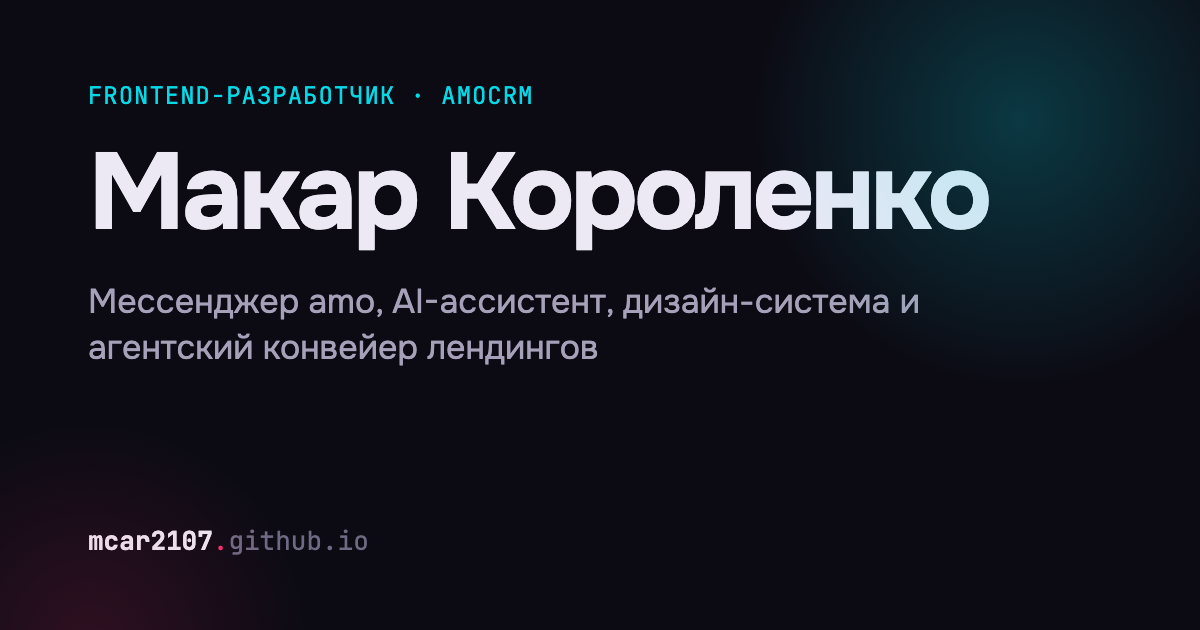
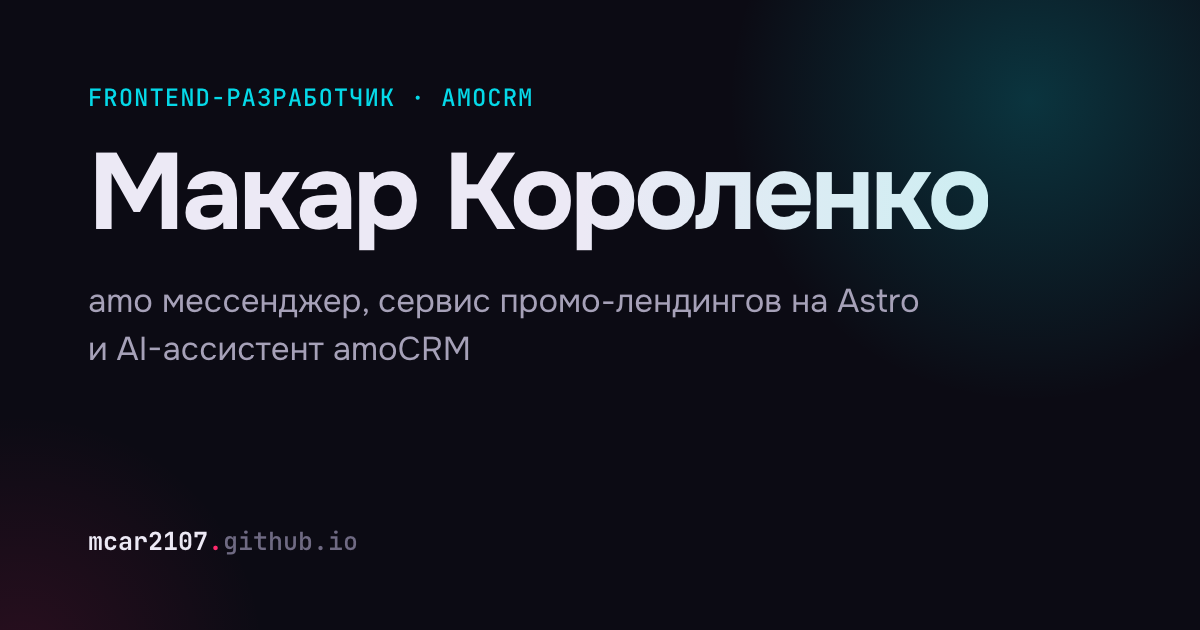
feat(og): add per-language Open Graph image
- Add `ogImage` to RU and EN UI strings (`og.png` / `og-en.png`)
- Use the language-specific OG image in `Base.astro` instead of the hardcoded `og.png`
- Add `public/og-en.png` for the English version

diff --git a/src/i18n.ts b/src/i18n.ts
@@ -20,6 +20,7 @@ export const langUrl = (lang: Lang) => {
 const ruUi = {
   langName: 'Русский',
   ogLocale: 'ru_RU',
+  ogImage: 'og.png',
   title: 'Макар Короленко — Frontend-разработчик',
   description:
     'Портфолио фронтенд-разработчика: 4 года в amoCRM — amo мессенджер на React и Electron, сервис промо-лендингов на Astro, AI-ассистент amoCRM. TypeScript, React, Next.js, Astro.',
@@ -51,6 +52,7 @@ export const ui: Record<Lang, typeof ruUi> = {
   en: {
     langName: 'English',
     ogLocale: 'en_US',
+    ogImage: 'og-en.png',
     title: 'Makar Korolenko — Frontend Developer',
     description:
       'Frontend developer portfolio: 4 years at amoCRM — the amo messenger on React and Electron, a promo landing page service on Astro, the amoCRM AI assistant. TypeScript, React, Next.js, Astro.',
